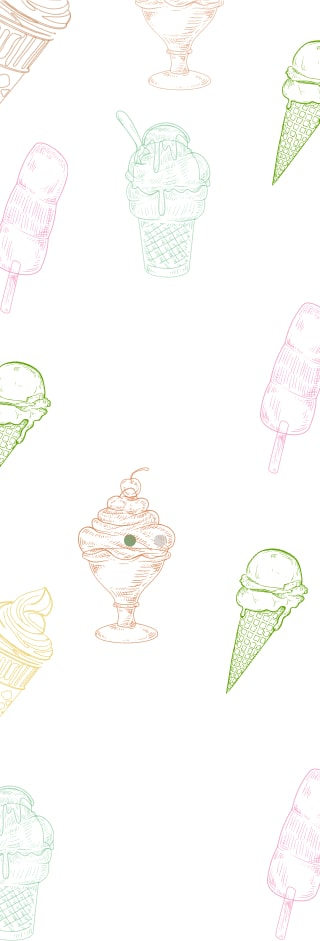
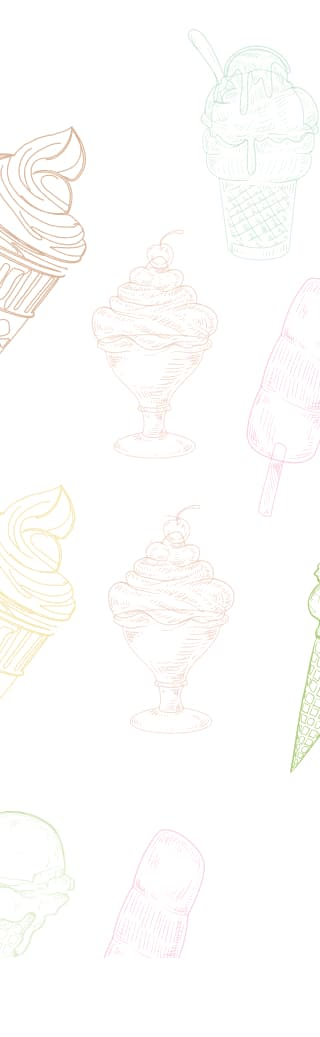
add swiper but seconde one need to be fixed

diff --git a/src/partials/customer-review.html b/src/partials/customer-review.html
@@ -1,28 +1,80 @@
 <section class="customer-review">
   <div class="container">
-    <div class="card">
-      <picture>
-        <source
-          srcset="
-            ./images/customer-review/desktop/emilydeskx1-min.png 1x,
-            ./images/customer-review/desktop/emilydeskx1-min.png 2x
-          "
-        />
-        <img
-          src="./images/customer-review/desktop/emilydeskx1-min.png"
-          width="85"
-          height="85"
-          alt="customer photo"
-        />
-      </picture>
-      <div class="customer-review__content-wrap">
-        <p class="customer-review__content">
-          I love visiting your cafe. You prepare the most delicious ice cream in
-          Los Angeles! In addition, you have beautiful serving, cozy atmosphere
-          and polite staff.
-        </p>
-        <p class="customer-review__name">Emily, Los Angeles</p>
-      </div>
+    <div class="customer-review__swiper">
+      <ul class="customer__list swiper-wrapper">
+        <li class="customer__item swiper-slide">
+          <picture class="customer__photo">
+            <source
+              srcset="
+                ./images/customer-review/desktop/emilydeskx1-min.png 1x,
+                ./images/customer-review/desktop/emilydeskx1-min.png 2x
+              "
+            />
+            <img
+              src="./images/customer-review/desktop/emilydeskx1-min.png"
+              width="85"
+              height="85"
+              alt="customer photo"
+            />
+          </picture>
+          <div class="customer-review__content-wrap">
+            <p class="customer-review__content">
+              I love visiting your cafe. You prepare the most delicious ice
+              cream in Los Angeles! In addition, you have beautiful serving,
+              cozy atmosphere and polite staff.
+            </p>
+          </div>
+          <p class="customer-review__name">Emily, Los Angeles</p>
+        </li>
+        <li class="customer__item swiper-slide">
+          <picture class="customer__photo">
+            <source
+              srcset="
+                ./images/customer-review/desktop/bryandescx1-min.png 1x,
+                ./images/customer-review/desktop/bryandescx2-min.png 2x
+              "
+            />
+            <img
+              src="./images/customer-review/desktop/bryandescx1-min.png"
+              width="85"
+              height="85"
+              alt="customer photo"
+            />
+          </picture>
+          <div class="customer-review__content-wrap">
+            <p class="customer-review__content">
+              Every day we come to you with friends after classes in college. We
+              love your ice cream and casual atmosphere!
+            </p>
+          </div>
+          <p class="customer-review__name">Bryan, New-York</p>
+        </li>
+        <li class="customer__item swiper-slide">
+          <picture class="customer__photo">
+            <source
+              srcset="
+                ./images/customer-review/desktop/dianadescx1-min.png 1x,
+                ./images/customer-review/desktop/dianadescx2-min.png 2x
+              "
+            />
+            <img
+              src="./images/customer-review/desktop/dianadescx1-min.png"
+              width="85"
+              height="85"
+              alt="customer photo"
+            />
+          </picture>
+          <div class="customer-review__content-wrap">
+            <p class="customer-review__content">
+              Ice cream is my passion! I love your chocolate hazelnut ice cream!
+              And I really like the excellent service - always served politely
+              and quickly!
+            </p>
+          </div>
+          <p class="customer-review__name">Diana, Chicago</p>
+        </li>
+      </ul>
+      <div class="swiper-pagination"></div>
     </div>
   </div>
 </section>

diff --git a/src/sass/components/_customer-review.scss b/src/sass/components/_customer-review.scss
@@ -30,15 +30,110 @@
     }
   }
 }
+.customer-review__swiper {
+  position: relative;
+  padding-top: 178px;
+  display: block;
+
+  @include tab {
+    padding-top: 283px;
+  }
+  @include pc {
+    padding-top: 464px;
+  }
+}
+
+.customer-review__list {
+  height: 466px;
+
+  @include tab {
+    height: 255px;
+  }
+  @include pc {
+    height: 361px;
+  }
+}
+
+.customer__item {
+  display: flex;
+  flex-direction: column;
+  align-items: center;
+}
+
+.customer__photo {
+  margin-bottom: 32px;
+}
+
+.customer-review__content-wrap {
+  flex-grow: 1;
+  // display: flex;
+  background-color: var(--bg-green-color);
+  border-radius: 10px;
+  margin-bottom: 32px;
+
+  @include tab {
+    border-radius: 24px;
+  }
+  @include pc {
+    width: 968px;
+  }
+}
+
+.customer-review__content {
+  text-align: center;
+  padding: 35px 39px;
+  margin: auto;
+  font-weight: 500;
+  font-size: 12px;
+  line-height: 2.55;
+
+  @include tab {
+    padding: 28px 80px;
+    font-size: 14px;
+    line-height: 1.86;
+  }
+
+  @include pc {
+    padding: 43px 109px;
+    font-size: 16px;
+  }
+}
 
 .customer-review__name {
   text-align: center;
-
   font-weight: 500;
   font-size: 20px;
   line-height: 1.86;
+  color: var(--secondary-text-color);
 
   @include tab {
     font-size: 16px;
   }
+
+  @include pc {
+    font-size: 16px;
+    line-height: 1.85;
+  }
+}
+
+.swiper-pagination {
+  display: flex;
+  justify-content: center;
+}
+
+.swiper-horizontal > .swiper-pagination-bullets,
+.swiper-pagination-bullets.swiper-pagination-horizontal,
+.swiper-pagination-custom,
+.swiper-pagination-fraction {
+  bottom: -32px;
+}
+
+.swiper-pagination-bullet {
+  width: 12px;
+  height: 12px;
+  background: #d9d9d9;
+}
+
+.swiper-pagination-bullet-active {
+  background: #84a178;
 }

diff --git a/src/partials/gallery.html b/src/partials/gallery.html
@@ -1,14 +1,8 @@
 <section class="section gallery">
   <div class="container">
-    <img
-      class="swiper"
-      src="./images/gallery/desktop/gallerydescx1-min.jpg"
-      alt=""
-    />
-
-    <!-- <div class="swiper gallerySwiper">
-      <div class="swiper-wrapper">
-        <div class="swiper-slide">
+    <div class="swiper gallery__swiper">
+      <ul class="swiper-wrapper">
+        <li class="swiper-slide">
           <img
             srcset="
               ./images/gallery/desktop/gallerydescx1-min.jpg 1x,
@@ -20,8 +14,8 @@
             height="422"
             loading="lazy"
           />
-        </div>
-        <div class="swiper-slide">
+        </li>
+        <li class="swiper-slide">
           <img
             srcset="
               ./images/gallery/desktop/gallery2x1.jpg 1x,
@@ -33,8 +27,8 @@
             height="422"
             loading="lazy"
           />
-        </div>
-        <div class="swiper-slide">
+        </li>
+        <li class="swiper-slide">
           <img
             \
             src="./images/gallery/desktop/gallery3x1.jpg"
@@ -43,8 +37,8 @@
             height="422"
             loading="lazy"
           />
-        </div>
-      </div>
-    </div> -->
+        </li>
+      </ul>
+    </div>
   </div>
 </section>

diff --git a/src/index.html b/src/index.html
@@ -1,6 +1,5 @@
 <!DOCTYPE html>
-<html lang="ru">
-  <>
+<html lang="ukr">
     <meta charset="UTF-8" />
     <meta name="viewport" content="width=device-width, initial-scale=1.0" />
 
@@ -29,7 +28,7 @@
 
     <!-- CUSTOM STYLE -->
     <link rel="stylesheet" href="./sass/index.scss" />
-    <link rel="shortcut icon" href="#" type="image/x-icon" />
+    <link rel="shortcut icon" href="./images/favicon.png" type="image/x-icon" />
     <title>IceCream</title>
   </head>
   <body>
@@ -42,10 +41,12 @@
     <include src="./partials/contacts.html"></include>
     <include src="./partials/footer.html"></include>
 
-    <script type="module" src="./js/swiper.js"></script>
-    <script src="https://cdn.jsdelivr.net/npm/swiper/swiper-bundle.min.js"></script>
-
+    
     <script type="module" src="./js/modal.js"></script>
     <script type="module" src="./js/menu.js"></script>
+
+    <script type="module" src="./js/gallery-swiper.js"></script>
+    <script type="module" src="./js/customer-review-swiper.js"></script>
+    <script src="https://cdn.jsdelivr.net/npm/swiper/swiper-bundle.min.js"></script>
   </body>
 </html>

diff --git a/src/sass/components/_gallery.scss b/src/sass/components/_gallery.scss
@@ -1,11 +1,11 @@
 .gallery {
   position: relative;
 }
-.swiper {
+.gallery__swiper {
   position: absolute;
   bottom: -98px;
-  margin: 0 auto;
-  display: block;
+  left: 50%;
+  transform: translateX(-50%);
 
   max-width: 280px;
   max-height: 130px;
@@ -32,20 +32,3 @@
     border-radius: 24px;
   }
 }
-
-// .swiper-slide {
-//   display: flex;
-// }
-// .swiper-slide img {
-//   width: 100%;
-//   height: 100%;
-//   object-fit: cover;
-//   border-radius: 9px;
-
-//   @include tab {
-//     border-radius: 19px;
-//   }
-//   @include pc {
-//     border-radius: 24px;
-//   }
-// }

diff --git a/src/sass/base/_body.scss b/src/sass/base/_body.scss
@@ -1,13 +1,11 @@
 body {
-  background-color: var(--bg-green-color);
+  background-color: var(--bg-color);
   color: var(--primary-text-color);
 
   font-family: 'Montserrat', sans-serif;
   font-size: 12px;
   letter-spacing: var(--letter-spacing);
   line-height: var(--line-height-auto);
-
-  cursor: url(./images/cursor.svg), auto;
 
   @include tab {
     font-size: 14px;

diff --git a/src/js/customer-review-swiper.js b/src/js/customer-review-swiper.js
@@ -1,0 +1,17 @@
+var swiper = new Swiper('.customer-review__swiper', {
+  autoplay: {
+    delay: 4000,
+    disableOnInteraction: false,
+    pauseOnMouseEnter: true,
+  },
+  pagination: {
+    el: '.swiper-pagination',
+    clickable: true,
+  },
+  keyboard: {
+    enabled: true,
+  },
+  loop: true,
+  allowTouchMove: true,
+  clickable: true,
+});

diff --git a/src/js/gallery-swiper.js b/src/js/gallery-swiper.js
@@ -1,10 +1,11 @@
-var swiper = new Swiper('.gallerySwiper', {
+var swiper = new Swiper('.gallery__swiper', {
   autoplay: {
-    delay: 5000,
+    delay: 4000,
     disableOnInteraction: false,
     pauseOnMouseEnter: true,
   },
+  clickable: true,
   loop: true,
   allowTouchMove: true,
-  clickable: true,
+  grabCursor: true,
 });
